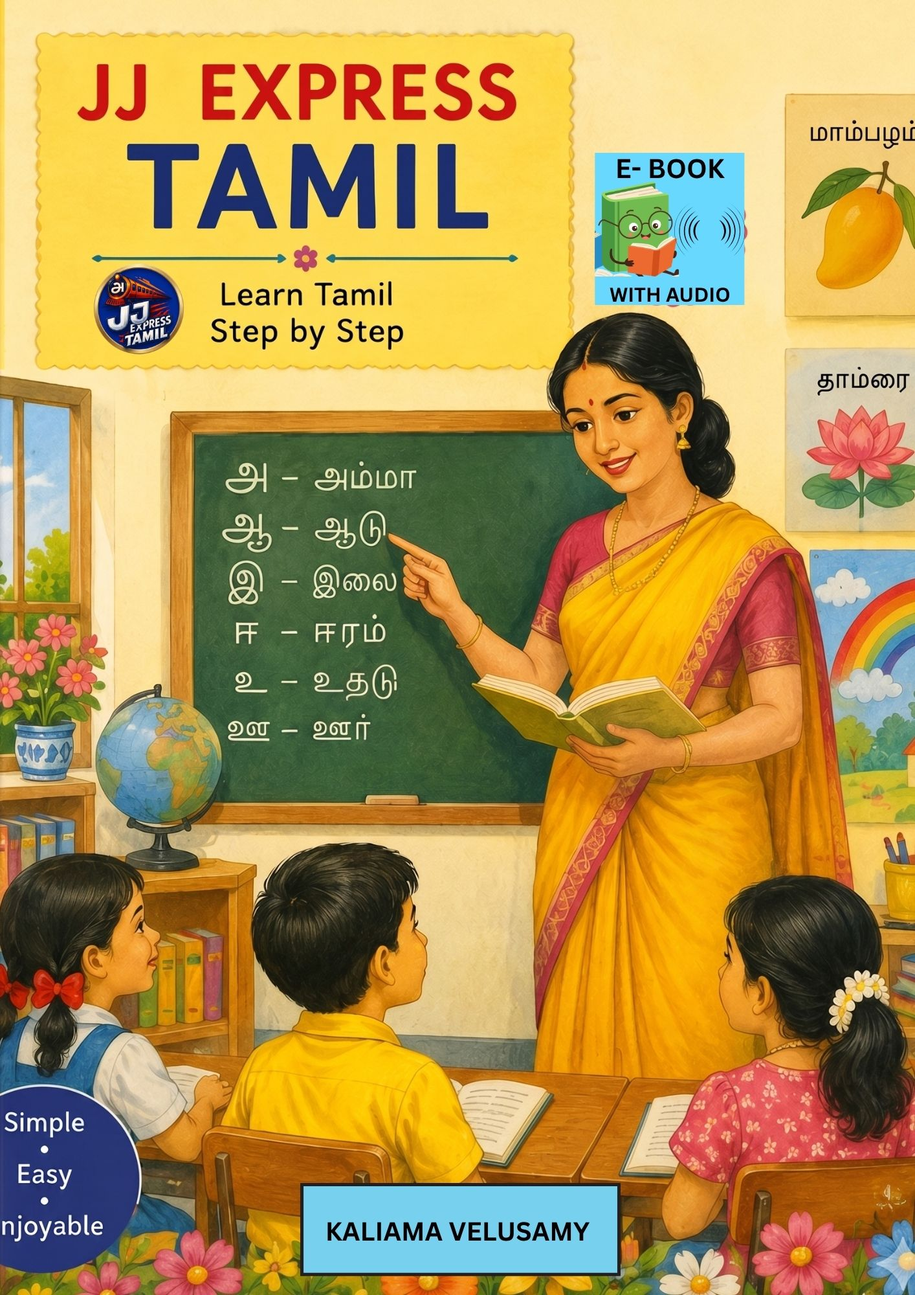
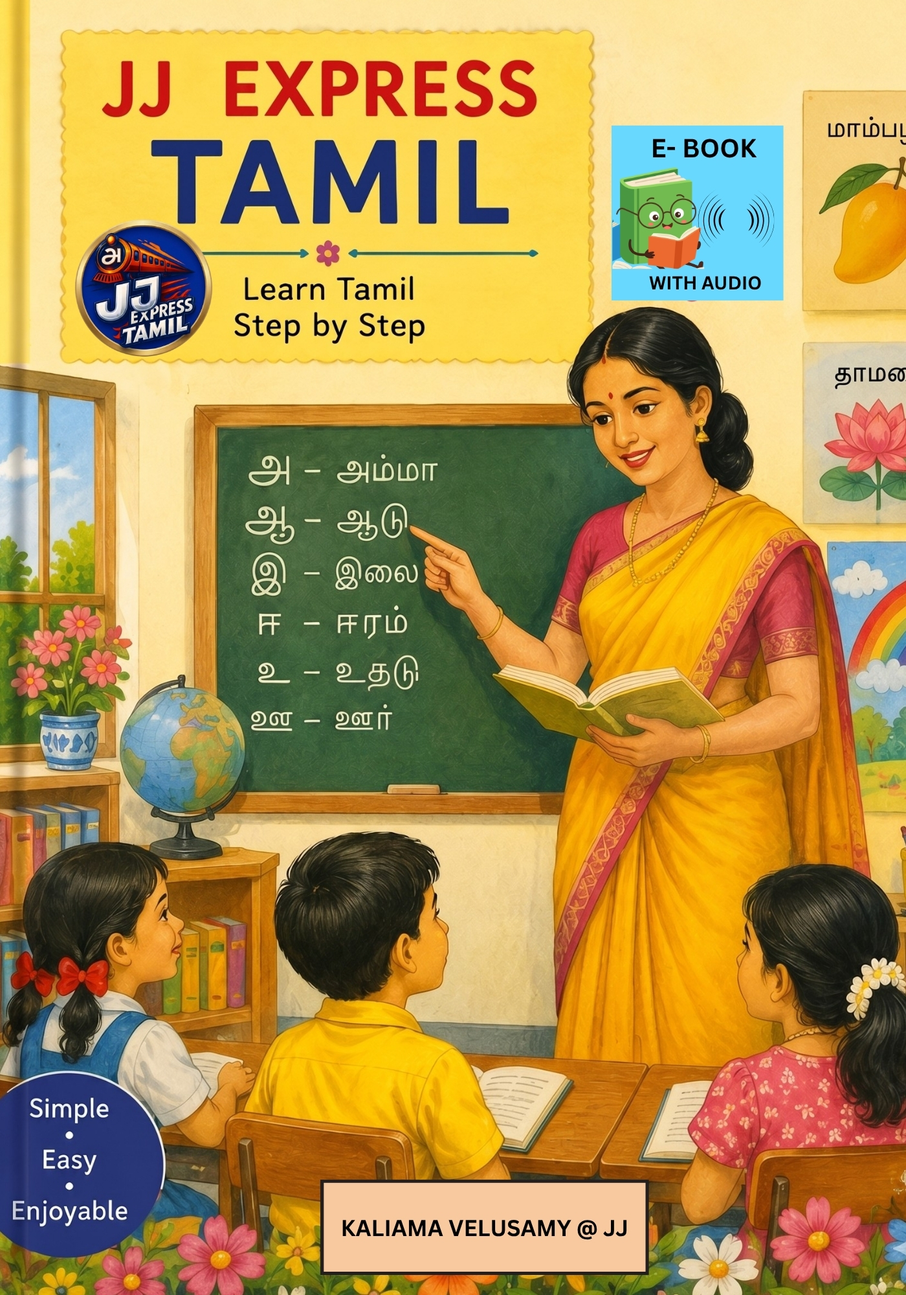
updated cover page

diff --git a/index.html b/index.html
@@ -261,6 +261,71 @@ body {
 }
 
 
+
+/* =========================================
+   SWIPE INDICATOR
+========================================= */
+
+.swipe-hint {
+    display: flex;
+    align-items: center;
+    justify-content: center;
+    gap: 10px;
+
+    width: fit-content;
+    max-width: 100%;
+
+    margin: 12px auto 0;
+    padding: 9px 18px;
+
+    background: #FFF4D6;
+    color: #21005B;
+
+    border: 2px solid #FFF4D6;
+    border-radius: 50px;
+
+    font-family: Arial, sans-serif;
+    font-size: 14px;
+    font-weight: bold;
+
+    box-shadow: 0 3px 8px rgba(0, 0, 0, 0.2);
+}
+
+.swipe-hand {
+    font-size: 18px;
+    animation: handSwipe 1.2s ease-in-out infinite;
+}
+
+.swipe-arrows {
+    font-size: 23px;
+    font-weight: bold;
+    line-height: 1;
+    animation: arrowSwipe 1.2s ease-in-out infinite;
+}
+
+@keyframes handSwipe {
+    0%, 100% {
+        transform: translateX(0);
+    }
+
+    50% {
+        transform: translateX(-5px);
+    }
+}
+
+@keyframes arrowSwipe {
+    0%, 100% {
+        transform: translateX(0);
+    }
+
+    50% {
+        transform: translateX(5px);
+    }
+}
+
+
+
+
 /* ===========================================
    MOBILE
 =========================================== */
@@ -404,6 +469,24 @@ body {
 
     }
 
+    /* MOBILE SWIPE INDICATOR */
+
+    .swipe-hint {
+        gap: 7px;
+        margin-top: 10px;
+        padding: 7px 12px;
+        font-size: 11px;
+    }
+
+    .swipe-hand {
+        font-size: 16px;
+    }
+
+    .swipe-arrows {
+        font-size: 20px;
+    }
+
+
 }
 
 
@@ -416,72 +499,66 @@ body {
 <body>
 
 
-<!-- =========================================
-     YOUR EXISTING BOOK
-========================================= -->
+
+<!-- YOUR EXISTING BOOK -->
 
 <div class="app">
 
     <div class="header">
-
         📚 Tamil e-Book • தமிழ் எழுத்துகள்
-
     </div>
-
 
     <div class="book">
 
         <div class="cover">
-
             <img
                 src="cover.jpg"
                 alt="Tamil Book Cover"
             >
-
         </div>
 
     </div>
 
+    <!-- SWIPE INDICATOR -->
+    <div class="swipe-hint">
+        <span class="swipe-hand">☝</span>
+        <span class="swipe-text">SWIPE TO TURN PAGE</span>
+        <span class="swipe-arrows">↔</span>
+    </div>
 
+    <!-- NAVIGATION -->
     <div class="navigation">
 
         <button
             class="nav-btn"
             onclick="nextPage('home.html','prev')"
+            aria-label="Previous page"
         >
-
             ❮
-
         </button>
 
-
         <div class="dots">
-
             <div class="dot active"></div>
-
             <div class="dot"></div>
-
             <div class="dot"></div>
-
             <div class="dot"></div>
-
             <div class="dot"></div>
-
         </div>
-
 
         <button
             class="nav-btn"
             onclick="nextPage('page2.html','next')"
+            aria-label="Next page"
         >
-
             ❯
-
         </button>
 
     </div>
 
 </div>
+
+<script src="swipe.js"></script>
+
 
 <script src="swipe.js"></script>
 
